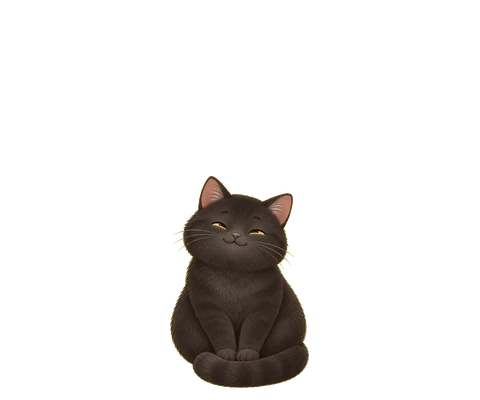
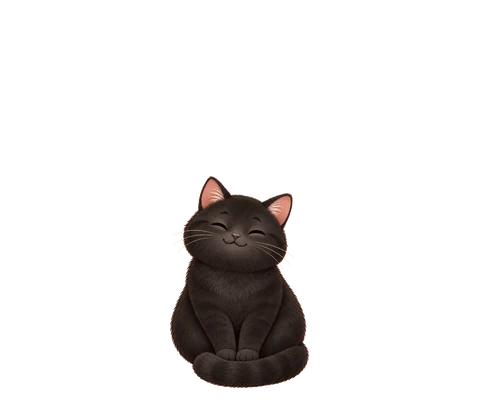
Ryokan: soak pose for all cats; updated Pilpel sit and head art
Pilpel's other poses are re-scaled from his sit image, so they changed too.

Claude-Session: https://claude.ai/code/session_01VJmVSm578cqqvqvA9X3P2b

diff --git a/index.html b/index.html
@@ -277,8 +277,8 @@
     bonsai:   { room: 'engawa', ja: '盆栽', tr: 'bonsai', en: 'pine bonsai', price: 260, pose: 'sit', cat: { x: 24, y: 87.5 } }
   };
   const POSE_LABEL = { sit: 'sitting', sleep: 'napping', lie: 'lying', head: 'peeking', ride: 'riding', face: 'looking out of', half: 'soaking in', soak: 'soaking' };
-  // Poses that have art for every cat. Add 'soak' here once every cat has its soak picture.
-  const READY_POSES = new Set(['sit', 'sleep', 'lie', 'half']);
+  // Poses that have art for every cat.
+  const READY_POSES = new Set(['sit', 'sleep', 'lie', 'half', 'soak']);
 
   // ja: the name shown in Japanese. tr: romaji. en: the English meaning, shown on the cat's card.
   const CATS = {
